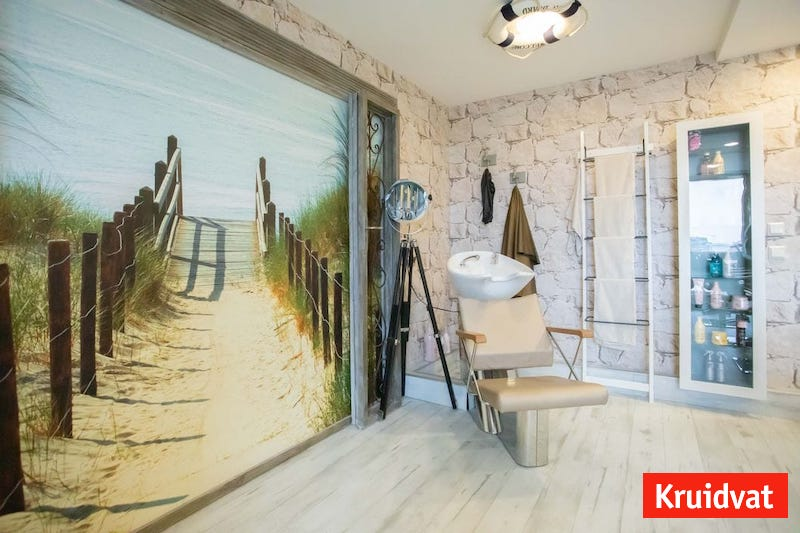
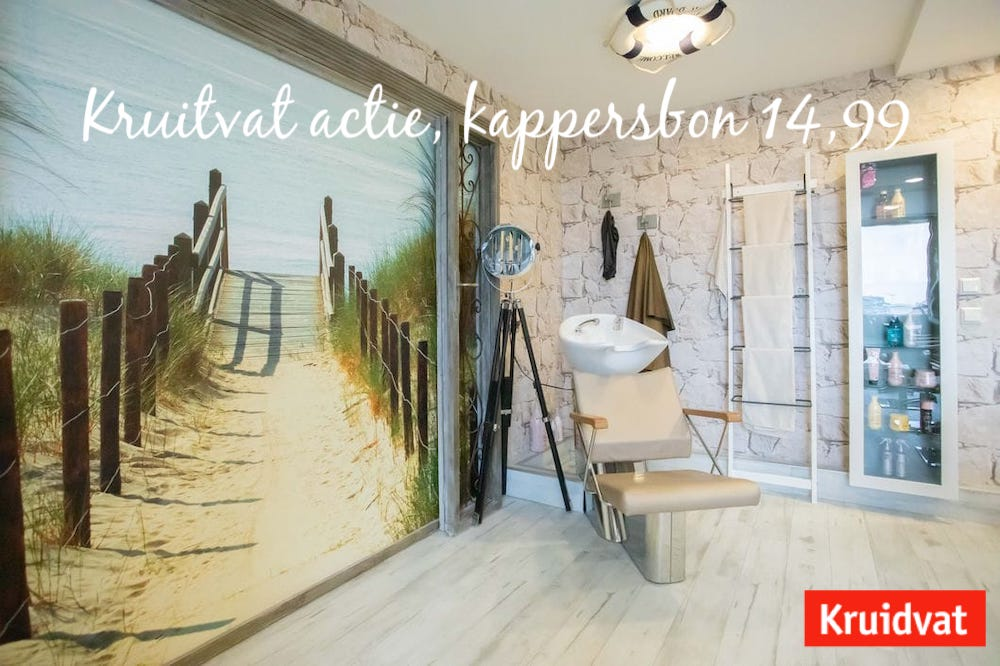
disabling popup and adding new activie section

Changed region(s): [[0.0625, 0.1201, 0.9062, 0.2702], [0.8125, 0.8705, 1.0, 0.9606]]

diff --git a/index.html b/index.html
@@ -18,7 +18,7 @@
     <link href="revolution/css/navigation.css" rel="stylesheet">
     <!-- rev slider -->
     <link href="css/style.css" rel="stylesheet">
-    <script src="js/promoBox.js"></script>
+    <!-- <script src="js/promoBox.js"></script> -->
     <script src="js/modernizr.js"></script>
     <script>
         (function (i, s, o, g, r, a, m) {
@@ -284,7 +284,31 @@
             </div>
         </div>
     </div>
-    <!-- end tariven -->
+
+    <!-- promo -->
+    <div id="galeria" class="pages">
+        <section class="l-portfolio">
+            <div class="container">
+                <div class="row">
+                    <div class="col-md-12 text-center">
+                        <h1 class="section-header">
+                            Actie
+                            <span class="underline animated" data-animation="fullWidth"></span>
+                        </h1>
+                    </div>
+                </div>
+            </div>
+            <div class="row">
+                <div class="col-sm-12">
+                    <a href="https://kappersactie.vrijetijd.nl/order?lid=1009" target="_blank">
+                        <img src="images/portfolio/salon/salon-small.jpeg" style="max-width:100% !important; display: block;margin-left: auto;margin-right: auto;" alt="">
+                    </a>
+                    </div>
+                </div>
+            </div>
+        </section>
+    </div>
+    <!-- end promo -->
 
     <div id="galeria" class="pages">
         <section class="l-portfolio">
@@ -589,7 +613,7 @@
 <script src="js/jquery.cubeportfolio.min.js"></script>
 <script src="js/jquery.magnific-popup.min.js"></script>
 <script src="js/masterslider.min.js"></script>
-<script src="js/promotion.js"></script>
+<!-- <script src="js/promotion.js"></script> -->
 <script src="http://maps.google.com/maps/api/js?key=AIzaSyCG3goAUjYtQd86erUGETJQ9w7Bk8IO748&language=nl"></script>
 <script>
     //        function initMap() {

diff --git a/js/promoBox.js b/js/promoBox.js
@@ -177,7 +177,7 @@ var promoBox = function (o) {
                 '#promoOverlay { position: fixed; width: 100%; height: 100%; top: 0; left: 0; zoom: 1; z-index: 9990; background: #000; background: rgba(0, 0, 0, 0.6); -ms-filter: "progid:DXImageTransform.Microsoft.Alpha(Opacity=60)"; filter: alpha(opacity=60); pointer-events: all; }',
                 '#promoContent { position: relative; display: inline-block; top: 10%; max-width: 80%; height: auto; z-index: 9992; pointer-events: all; }',
                 '#promoImage { height: auto; width: auto; max-width: 100%; max-height: 75%; box-sizing: border-box; display: block; border: 8px solid #fff; }',
-                '#promoText {position: absolute; top: 20%; left: 10%; display: block; color: white; font-size: 40px; text-shadow: 2px 2px grey;}',
+                '#promoText {position: absolute; top: 20%; left: 10%; display: block; color: white; font-size: 30px; text-shadow: 2px 2px grey;}',
                 '#promoClose { position: absolute; top: 0; right: 0; display: block; line-height: 16px; text-align: right; padding: 24px 28px; color: #000; z-index: 9992; font-family: sans-serif; font-size: 17px; opacity: 0.6; transition: 0.1s all; text-decoration: none; }',
                 '#promoClose:hover { opacity: 1; cursor: pointer; }',
                 '#promoButtons { position: absolute; bottom: 0; width: 100%; padding: 24px 0; }',
